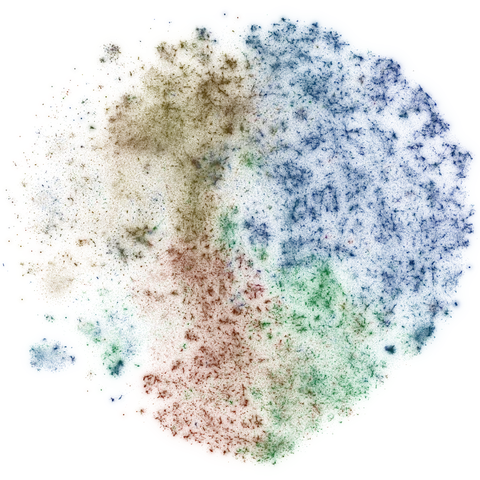
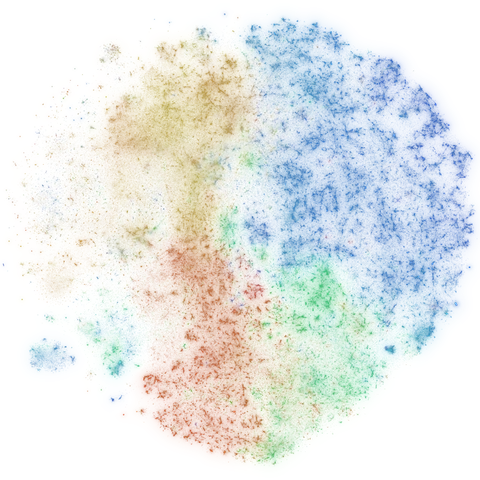
Mock map, light mode: luminous haze with pale cores, sharp coloured grains on top

diff --git a/design/home-mock/index.html b/design/home-mock/index.html
@@ -83,6 +83,10 @@ form.big button { border-radius: 999px; border: 0; background: var(--accent); co
 body[data-state="home"] #map { --s: max(1250px, 125vw); width: var(--s); height: var(--s);
   left: calc(50vw - var(--s) / 2); top: max(56vh, 470px); }
 body[data-state="home"] .map-img { opacity: 1; }
+/* light mode: a faint sky inside the planet, so the pale glowing cores read as light */
+:root[data-theme="light"] #world::before { content: ""; position: absolute; inset: 2%; border-radius: 50%;
+  background: radial-gradient(circle closest-side, #e9ece6 0%, #eef0ea 70%, transparent 100%); }
+:root[data-theme="light"] body[data-state="explore"] #world::before { opacity: .7; }
 @media (max-width: 700px) { body[data-state="home"] #map { --s: 190vw; top: 72vh; } }
 
 /* results: a quiet globe beside the list; the results glow */

diff --git a/design/home-mock/make_map.py b/design/home-mock/make_map.py
@@ -87,13 +87,26 @@ for theme in ("light", "dark"):
         a = np.clip(exposed.max(-1, keepdims=True), 0, 1)
         out_rgb = np.where(a > 1e-4, exposed / np.maximum(a, 1e-4), 0)
     else:
-        # ink: each study adds pigment; dense places become deep, saturated ink with a soft shadow
-        # sharp grains carry most of the ink (stars in negative); the wide wash stays light
-        ink = rgb * 2.4 + blur(rgb, 0.9) * 1.6 + blur(rgb, 7) * 1.4 + blur(rgb, 24) * 0.6
-        amount = ink.mean(-1, keepdims=True)
-        a = np.clip(1 - np.exp(-amount * 7.0), 0, 1) * 0.98
-        colour = ink / np.maximum(ink.max(-1, keepdims=True), 1e-6)    # hue of the pigment
-        out_rgb = saturate(colour * (0.58 - 0.34 * a), 1.5)            # deeper where denser
+        # backlit glass: the same summed light as the dark map, shown as vivid colour on cream;
+        # the densest cores turn into pale, warm light ringed by their colour (glow without darkness)
+        light = rgb * 1.6 + blur(rgb, 1.2) * 1.3 + blur(rgb, 6) * 2.0 + blur(rgb, 22) * 2.6
+        exposed = 1 - np.exp(-light * 1.8)
+        lum = exposed.max(-1, keepdims=True)
+        hue = saturate(exposed / np.maximum(lum, 1e-6), 1.6)
+        hue = hue / np.maximum(hue.max(-1, keepdims=True), 1e-6)       # pure, bright colour
+        core = np.clip((lum - 0.62) / 0.38, 0, 1) ** 1.5                # only the densest places
+        glowcol = np.array([1.0, 0.985, 0.94])                          # warm white, brighter than the page
+        haze_rgb = hue * 0.86 * (1 - core) + glowcol * core
+        haze_a = np.clip(lum ** 0.9 * 0.85 + core * 0.15, 0, 1)
+        # sharp grains on top, in the deep version of their colour: the "stars" inside the glow
+        grain = rgb * 1.0 + blur(rgb, 0.7) * 1.2
+        g_lum = grain.max(-1, keepdims=True)
+        g_hue = saturate(grain / np.maximum(g_lum, 1e-6), 1.5)
+        g_hue = g_hue / np.maximum(g_hue.max(-1, keepdims=True), 1e-6)
+        g_a = np.clip(1 - np.exp(-g_lum * 4.0), 0, 1) * 0.75 * (1 - core * 0.85)   # cores stay luminous
+        g_rgb = g_hue * 0.50
+        a = g_a + haze_a * (1 - g_a)                                     # grains over haze ("over")
+        out_rgb = (g_rgb * g_a + haze_rgb * haze_a * (1 - g_a)) / np.maximum(a, 1e-6)
     img = np.concatenate([np.clip(out_rgb, 0, 1), a], -1)
     out = Image.fromarray((img * 255).astype(np.uint8), "RGBA")
     out.save(OUT / f"science-map-{theme}.webp", quality=74, method=6)
